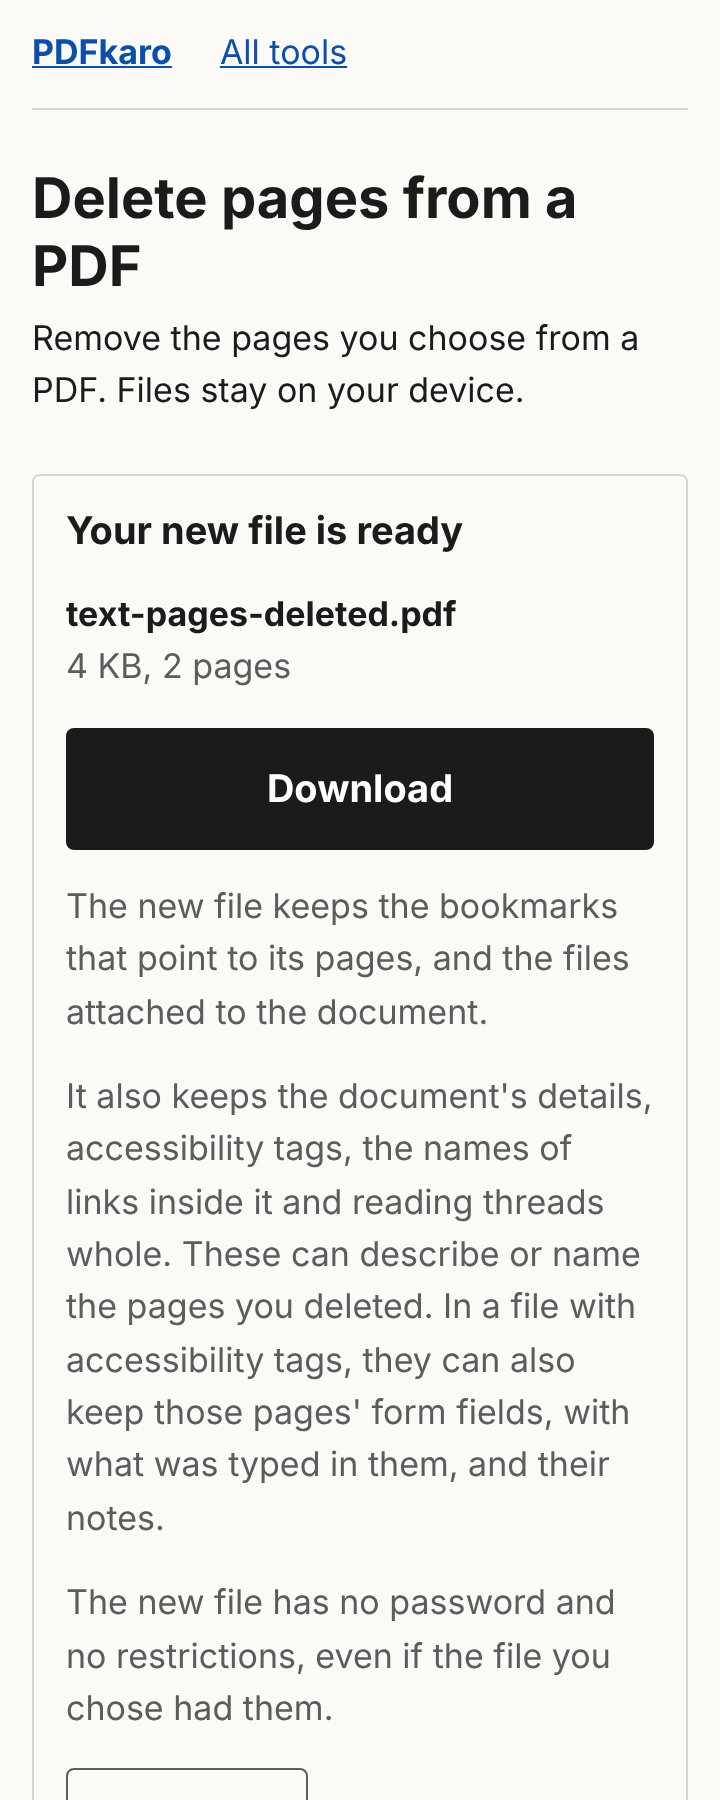
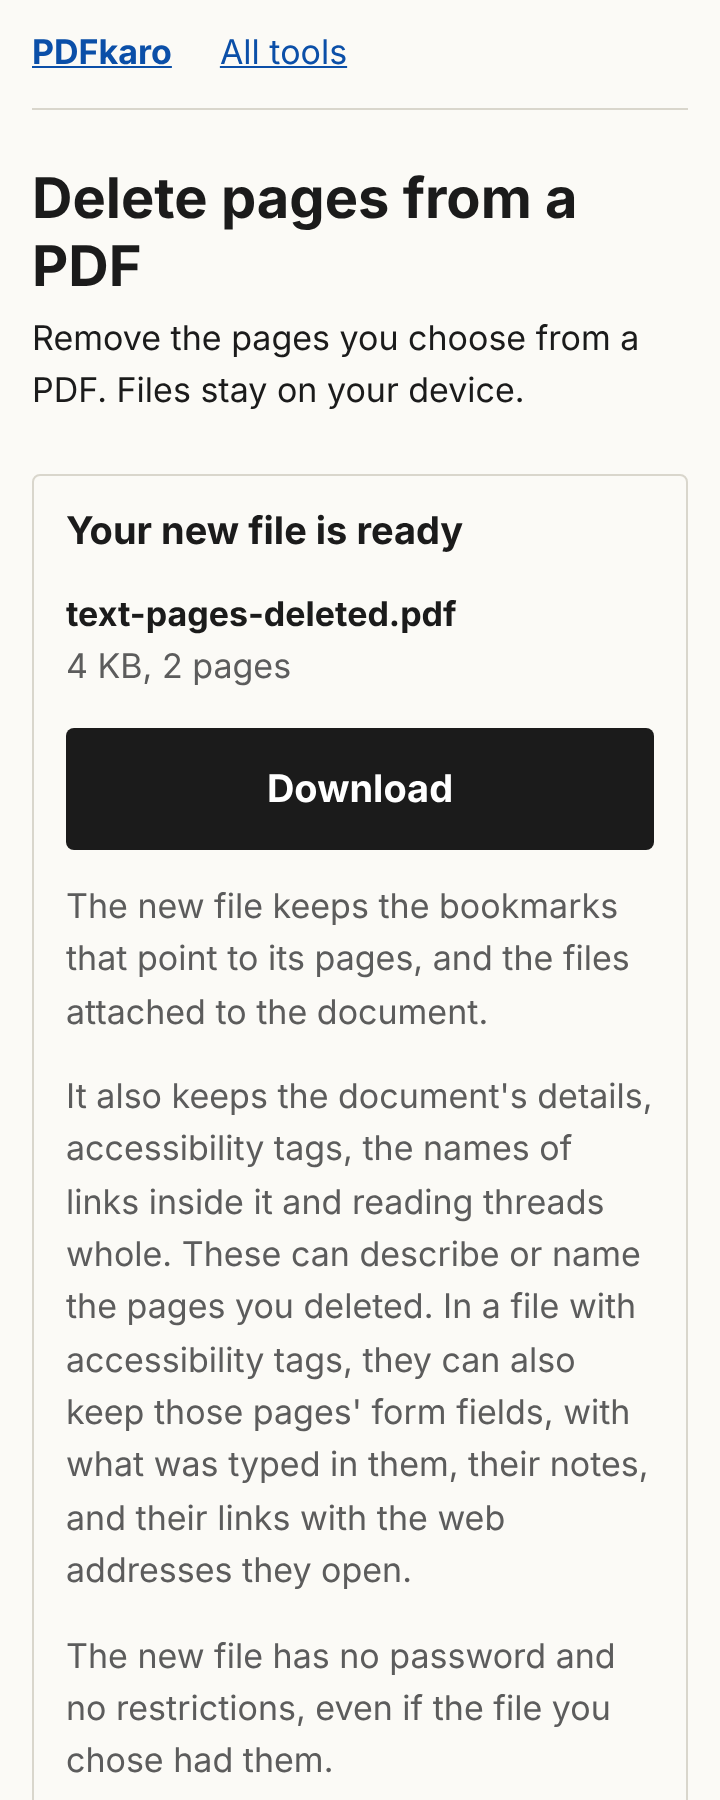
Delete and Extract: name tagged links in the words; Extract result screenshots
Claude-Session: https://claude.ai/code/session_01Ht5n4xeEVAutobXrc7qGtN

Changed region(s): [[0.0917, 0.8089, 0.8861, 0.9956]]

diff --git a/src/tools/registry.ts b/src/tools/registry.ts
@@ -264,7 +264,7 @@ export const tools: Tool[] = [
       // The owner's decisions of 13 Nov 2026.
       resultNotes: [
         'The new file keeps the bookmarks that point to its pages, and the files attached to the document.',
-        "It also keeps the document's details, accessibility tags, the names of links inside it and reading threads whole. These can describe or name pages you did not take. In a file with accessibility tags, they can also bring along those pages' form fields, with what was typed in them, and their notes.",
+        "It also keeps the document's details, accessibility tags, the names of links inside it and reading threads whole. These can describe or name pages you did not take. In a file with accessibility tags, they can also bring along those pages' form fields, with what was typed in them, their notes, and their links with the web addresses they open.",
         'The new file has no password and no restrictions, even if the file you chose had them.',
       ],
     },
@@ -309,7 +309,7 @@ export const tools: Tool[] = [
       // The owner's decisions of 13 Nov 2026.
       resultNotes: [
         'The new file keeps the bookmarks that point to its pages, and the files attached to the document.',
-        "It also keeps the document's details, accessibility tags, the names of links inside it and reading threads whole. These can describe or name the pages you deleted. In a file with accessibility tags, they can also keep those pages' form fields, with what was typed in them, and their notes.",
+        "It also keeps the document's details, accessibility tags, the names of links inside it and reading threads whole. These can describe or name the pages you deleted. In a file with accessibility tags, they can also keep those pages' form fields, with what was typed in them, their notes, and their links with the web addresses they open.",
         'The new file has no password and no restrictions, even if the file you chose had them.',
       ],
     },

diff --git a/tests/unit/delete-pdf-pages.test.ts b/tests/unit/delete-pdf-pages.test.ts
@@ -168,8 +168,8 @@ describe('what stays from deleted pages (the owner decision of 13 Nov 2026)', ()
     const text = await plainText(output);
     expect(text).not.toContain('SECRET-PAGE-TWO-TEXT');
     expect(text).not.toContain('secretfield');
-    // The tags point to page 2's filled field and note, so they stay too, as the page says.
-    for (const kept of ['SECRET-TAGGED-FIELD', 'SECRET-TAGGED-VALUE', 'SECRET-NOTE']) expect(holds(text, kept), kept).toBe(true);
+    // The tags point to page 2's filled field, note and link, so they stay too, as the page says.
+    for (const kept of ['SECRET-TAGGED-FIELD', 'SECRET-TAGGED-VALUE', 'SECRET-NOTE', 'SECRET-LINK.example']) expect(holds(text, kept), kept).toBe(true);
     expect(holds(text, 'SECRET-NOT-IN-THE-FILE')).toBe(false);
     for (const kept of ['SECRET-ALT-TEXT', 'SECRET-ACTUAL-TEXT', 'SECRET-DEST-NAME', 'SECRET-THREAD-TITLE']) expect(text).toContain(kept);
   });

diff --git a/tests/unit/extract-pdf-pages.test.ts b/tests/unit/extract-pdf-pages.test.ts
@@ -143,8 +143,8 @@ describe('what comes over from pages left out (the owner decision of 13 Nov 2026
     const text = new TextDecoder('latin1').decode(qpdf.read('/q.pdf'));
     expect(text).not.toContain('SECRET-PAGE-TWO-TEXT');
     expect(text).not.toContain('secretfield');
-    // The tags point to page 2's filled field and note, so they stay too, as the page says.
-    for (const kept of ['SECRET-TAGGED-FIELD', 'SECRET-TAGGED-VALUE', 'SECRET-NOTE']) expect(holds(text, kept), kept).toBe(true);
+    // The tags point to page 2's filled field, note and link, so they stay too, as the page says.
+    for (const kept of ['SECRET-TAGGED-FIELD', 'SECRET-TAGGED-VALUE', 'SECRET-NOTE', 'SECRET-LINK.example']) expect(holds(text, kept), kept).toBe(true);
     expect(text).toContain('SECRET-ALT-TEXT');
     expect(text).toContain('SECRET-ACTUAL-TEXT');
     expect(text).toContain('SECRET-DEST-NAME');

diff --git a/tests/fixtures/README.md b/tests/fixtures/README.md
@@ -25,7 +25,7 @@ The encrypted files come out different on each run, because encryption uses rand
 | `mixed.pdf` | Mixed page sizes and rotation: A4, Letter on its side, A5 turned a quarter, A4 upside down | 4 |
 | `rich.pdf` | Two bookmarks, a link and an attached file `note.txt` | 2 |
 | `images.pdf` | A JPEG 2000 image and text and shapes in CMYK colour, for PDF.js's decoders. The JPEG 2000 bytes were made once with Pillow and are kept in `make.mjs` | 1 |
-| `tagged.pdf` | Page 2 holds text, an untagged form field, an accessibility tag with alternate and actual text, a named destination, a reading thread, and a filled field and a note that the tags point to, each marked `SECRET-…`, to see what a file with fewer pages still carries | 2 |
+| `tagged.pdf` | Page 2 holds text, an untagged form field, an accessibility tag with alternate and actual text, a named destination, a reading thread, and a filled field, a note and a web link that the tags point to, each marked `SECRET-…`, to see what a file with fewer pages still carries | 2 |
 
 **Missing:** a file with a JBIG2 image, as no JBIG2 encoder runs on the build machine. PDF.js's JBIG2 decoder is in the same fixed helper data as the JPEG 2000 one, which `images.pdf` tests.
 
@@ -121,7 +121,7 @@ Each file was extracted in Node with the same qpdf the browser uses (`tests/unit
 | `mixed.pdf` | Pages 2 and 3 keep their size and rotation |
 | `rich.pdf` | Page 2 keeps "Chapter two" and `note.txt`; no bookmark points nowhere |
 | `images.pdf` | Taken; its JPEG 2000 image is kept as it was |
-| `tagged.pdf` | Page 1 taken: page 2's text and untagged field are gone; its tag text, destination name, thread title, and the tagged field with its value and the tagged note stay, as the page says |
+| `tagged.pdf` | Page 1 taken: page 2's text and untagged field are gone; its tag text, destination name, thread title, and the tagged field with its value, the tagged note and the tagged link stay, as the page says |
 
 Files made in the test: a nested outline keeps the bookmarks of chosen pages, moved up past dropped parents, and a file of 3,000 bookmarks keeps the 1,500 of the chosen page. The file over 100 MB from `make-large.mjs` (one page, 110 MB) was run by hand in Node on 13 Nov 2026: its page was taken and the result written. It is not run in CI.
 
@@ -141,7 +141,7 @@ Each file was run in Node with the same qpdf the browser uses (`tests/unit/delet
 | `form.pdf`, `images.pdf` | One page each, so deleting it would leave none: refused, and the page holds the main button back |
 | `mixed.pdf` | Pages 1 and 4 deleted: pages 2 and 3 keep their size and rotation |
 | `rich.pdf` | Page 1 deleted: "Chapter two" and `note.txt` kept, the link went with page 1, no bookmark points nowhere. Page 2 deleted: page 1 keeps its link |
-| `tagged.pdf` | Page 2 deleted: its text and untagged field are gone; its tag text, destination name, thread title, and the tagged field with its value and the tagged note stay, as the page says |
+| `tagged.pdf` | Page 2 deleted: its text and untagged field are gone; its tag text, destination name, thread title, and the tagged field with its value, the tagged note and the tagged link stay, as the page says |
 
 Files made in the test: a nested outline keeps the bookmarks of the pages left, moved up past dropped parents; a 500-page file with 3,000 bookmarks keeps the 2,970 of the 495 pages left; and a two-page file of 3,000 bookmarks keeps the 1,500 of the page left.
 

diff --git a/CLAUDE.md b/CLAUDE.md
@@ -164,7 +164,7 @@ All but `developer` are read-only.
 
 - **Repair PDF link.** `SPEC.md` says a damaged file shows a link to Repair PDF. Repair PDF is a phase 2 tool, so for now the page offers to leave the file out, and shows the link only once Repair PDF is published (`add-tool-widget`). The owner may want it otherwise. Also, the WebAssembly build of qpdf does not rebuild a broken cross-reference table that desktop qpdf rebuilds, so Repair PDF may need more than this build.
 
-- **Tagged fields and notes of left-out pages.** Found at Delete pages' stage 2 (13 Nov 2026): keeping accessibility tags whole, as decided, also keeps the form fields (with what was typed in them) and notes that the tags point to, from pages that Extract leaves out or Delete deletes. Both pages now say so. Should the tools instead remove those references from the tags, keeping the rest of the tags whole?
+- **Tagged fields, notes and links of left-out pages.** Found at Delete pages' stage 2 (13 Nov 2026): keeping accessibility tags whole, as decided, also keeps the form fields (with what was typed in them), notes and links (with their web addresses) that the tags point to, from pages that Extract leaves out or Delete deletes. Both pages now say so. Should the tools instead remove those references from the tags, keeping the rest of the tags whole?
 
 - **Licence.** The assumed default was AGPL-3.0 because compression would use Ghostscript; the owner has since chosen no Ghostscript (13 Nov 2026). The repo's licence, and whether it is public, are still the owner's to decide ("Source code" in Open decisions). Add no `LICENSE` file until then.
 - **Working doc.** Ask the owner to change "Preact islands" to React in the working doc, so the next export of `SPEC.md` matches the code.

diff --git a/src/content/tools/delete-pdf-pages.md b/src/content/tools/delete-pdf-pages.md
@@ -29,7 +29,7 @@ The new file keeps the bookmarks that point to the pages left, and drops the oth
 
 ### Does deleting a page remove everything about it?
 
-No. The page itself goes, with its text, and usually its form fields and notes. But some parts of a PDF belong to the whole document, and deleting a page does not remove them: its title, author and other details, its accessibility tags, the names of links inside it, and reading threads. These can still describe or name the pages you deleted. In a file with accessibility tags, the tags can also keep the deleted pages' form fields, with what was typed in them, and their notes. If you are deleting pages to keep something private, check the new file before you share it.
+No. The page itself goes, with its text, and usually its form fields and notes. But some parts of a PDF belong to the whole document, and deleting a page does not remove them: its title, author and other details, its accessibility tags, the names of links inside it, and reading threads. These can still describe or name the pages you deleted. In a file with accessibility tags, the tags can also keep the deleted pages' form fields, with what was typed in them, their notes, and their links with the web addresses they open. If you are deleting pages to keep something private, check the new file before you share it.
 
 ### Can I use a PDF that has a password?
 

diff --git a/src/content/tools/extract-pdf-pages.md b/src/content/tools/extract-pdf-pages.md
@@ -29,7 +29,7 @@ The new file keeps the bookmarks that point to the pages you took, and drops the
 
 ### Does anything from the other pages come over?
 
-The pages you did not take are left out, with their text, and usually their form fields and notes. But some parts of a PDF belong to the whole document, and come over whole: its title, author and other details, its accessibility tags, the names of links inside it, and reading threads. These can still describe or name pages you did not take. In a file with accessibility tags, the tags can also bring along those pages' form fields, with what was typed in them, and their notes. If that matters, check the new file before you share it.
+The pages you did not take are left out, with their text, and usually their form fields and notes. But some parts of a PDF belong to the whole document, and come over whole: its title, author and other details, its accessibility tags, the names of links inside it, and reading threads. These can still describe or name pages you did not take. In a file with accessibility tags, the tags can also bring along those pages' form fields, with what was typed in them, their notes, and their links with the web addresses they open. If that matters, check the new file before you share it.
 
 ### Can I use a PDF that has a password?
 

diff --git a/openspec/changes/add-delete-pdf-pages/design.md b/openspec/changes/add-delete-pdf-pages/design.md
@@ -39,7 +39,7 @@ Delete pages is Extract with the marks turned round: the visitor marks the pages
             actionLabel: 'Delete and download', writingLabel: 'Writing the new file',
             doneHeading: 'Your new file is ready', failedHeading: 'The new file was not made.',
             resultNotes: ['The new file keeps the bookmarks that point to its pages, and the files attached to the document.',
-                          "It also keeps the document's details, accessibility tags, the names of links inside it and reading threads whole. These can describe or name the pages you deleted. In a file with accessibility tags, they can also keep those pages' form fields, with what was typed in them, and their notes.",
+                          "It also keeps the document's details, accessibility tags, the names of links inside it and reading threads whole. These can describe or name the pages you deleted. In a file with accessibility tags, they can also keep those pages' form fields, with what was typed in them, their notes, and their links with the web addresses they open.",
                           'The new file has no password and no restrictions, even if the file you chose had them.'] } }
 ```
 

diff --git a/openspec/changes/add-delete-pdf-pages/tasks.md b/openspec/changes/add-delete-pdf-pages/tasks.md
@@ -36,7 +36,7 @@
 
 ## 8a. Review fix (stage 2)
 
-- [x] 8a.1 Add a tagged, filled field and a tagged note to page 2 of `tagged.pdf`; unit test that Delete and Extract keep them; say so in both tools' page text, notes shown with the result and specs; retake the screenshots that show the notes
+- [x] 8a.1 Add a tagged, filled field, a tagged note and a tagged web link to page 2 of `tagged.pdf`; unit test that Delete and Extract keep them; say so in both tools' page text, notes shown with the result and specs; retake Delete's screenshots, and take Extract's result screen (`extract-result-*.png`) into this change
 
 ## 9. Checks and review
 
